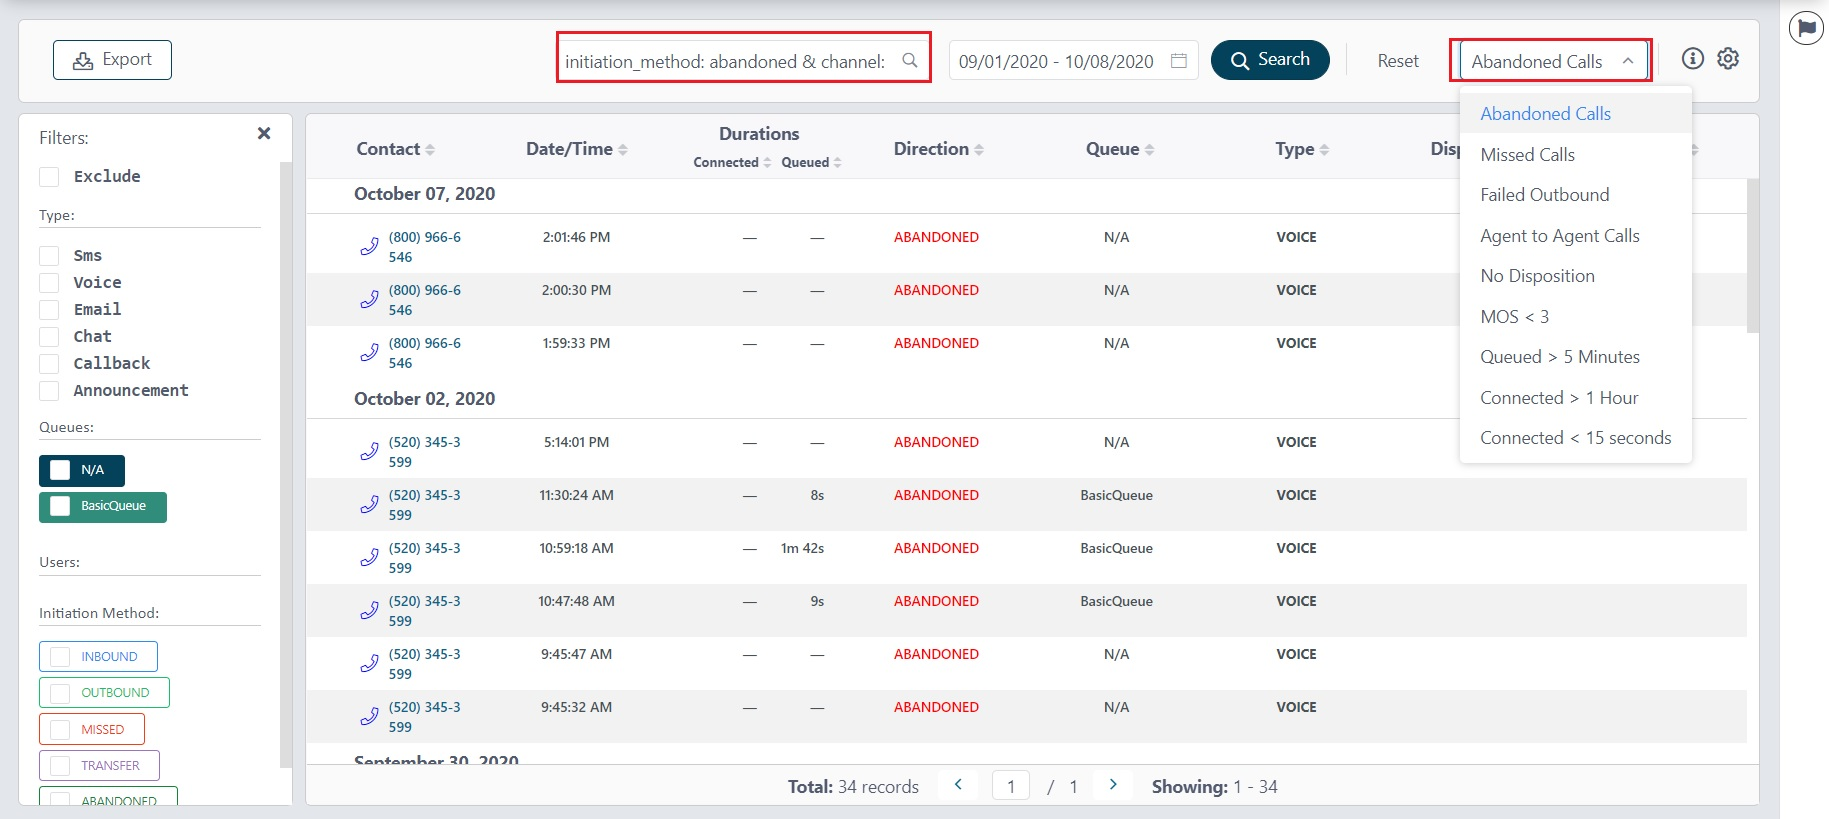
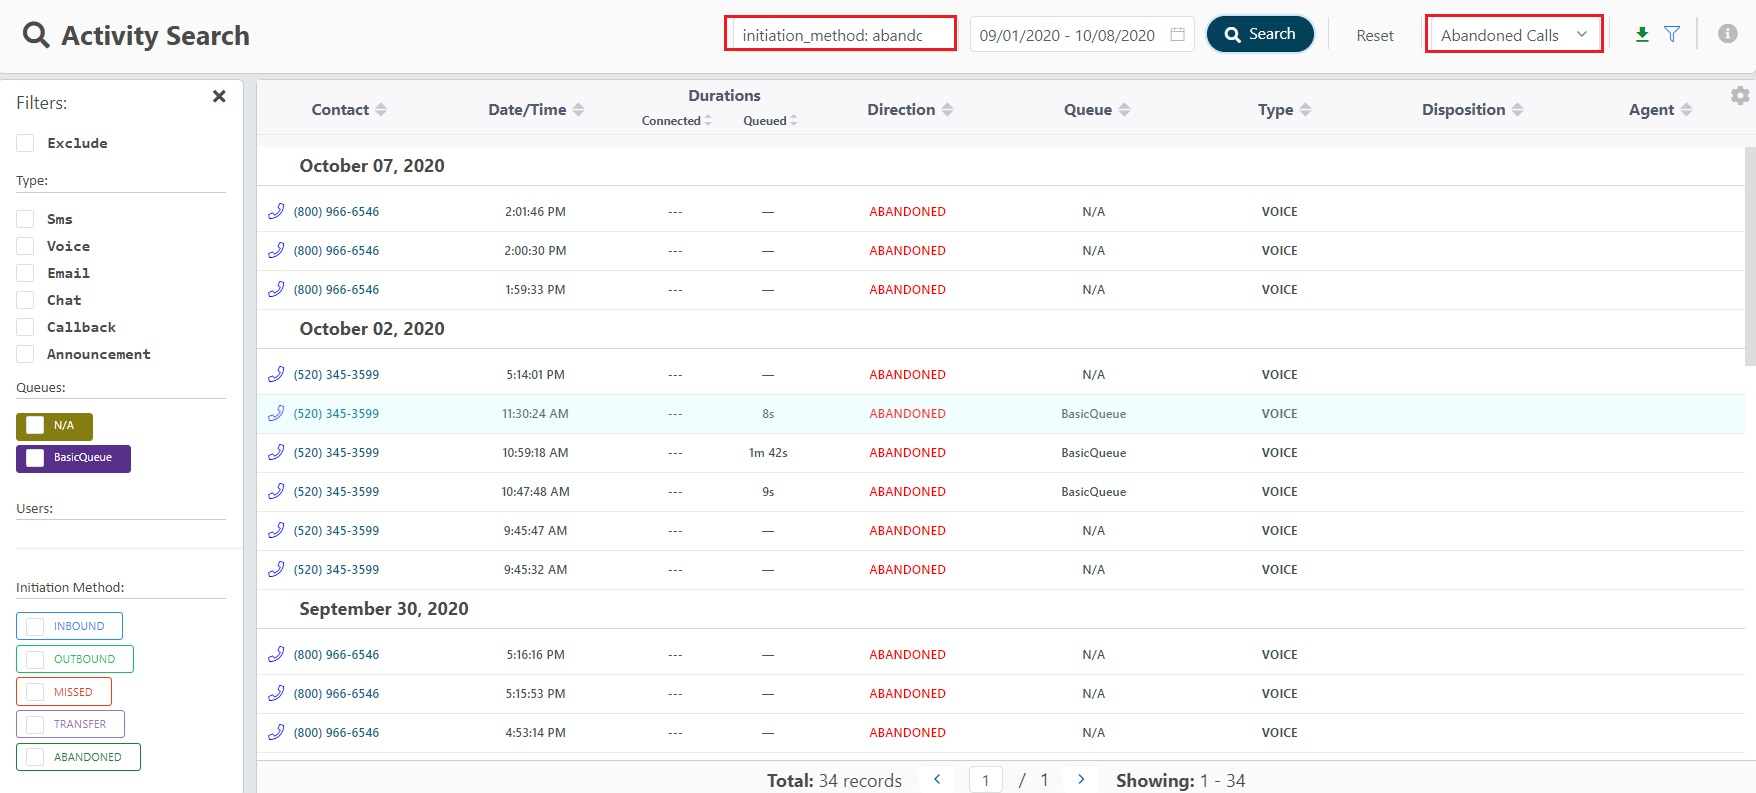
activity update

diff --git a/docs/_pages/activity.md b/docs/_pages/activity.md
@@ -56,7 +56,7 @@ At the right side of the header you have a gear icon which allows you to configu
 
 #### Export Activity
 
-Located at the left corner, you can click the `Export` button to export current results (this includes filters applied), or all results since the instance started.
+Located at the right corner, you can click the `Export` button to export current results (this includes filters applied) shown in the table.
 
 [![Export activity](/assets/images/export-activity.jpg)](/assets/images/export-activity.jpg)
 
